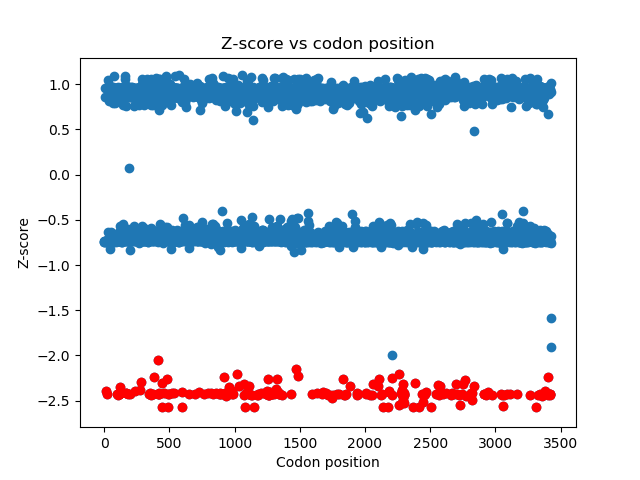
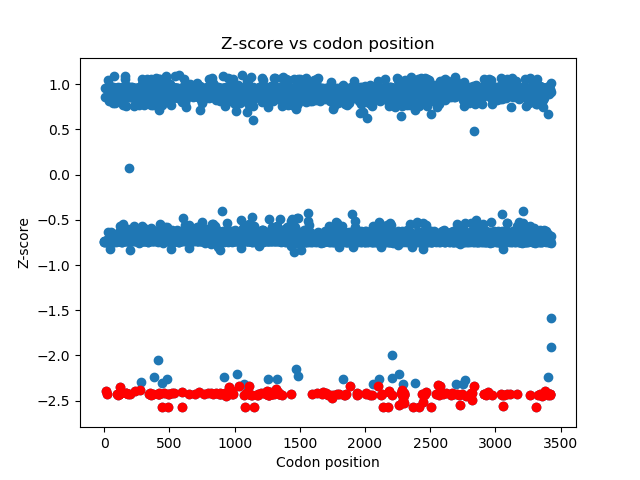
Update3

diff --git a/Week-1/dndsandplot.py b/Week-1/dndsandplot.py
@@ -36,7 +36,7 @@ nonsyn_all=nonsyn.sum(axis=0)
 nonsyn_all=nonsyn_all[ind]
 diff=syn_all-nonsyn_all
 zscore=stats.zscore(diff)
-redind=np.where(zscore<=-2)
+redind=np.where(zscore<=-2.326) # one -tailed , 0.01 p value
 
 plt.figure()
 plt.scatter(range(0,len(diff)),stats.zscore(diff))
@@ -48,10 +48,10 @@ plt.savefig('Z-score (dash as nonsyn).png')
 plt.close()
 
 plt.figure()
-plt.scatter(range(0,len(diff)),nonsyn_all/(syn_all+1)) #To not divide by zero, add 1 to the denominator
-plt.scatter(redind,nonsyn_all[redind]/(syn_all[redind]+1),c='red')
+plt.scatter(range(0,len(diff)),np.log2(nonsyn_all/(syn_all+1))) #To not divide by zero, add 1 to the denominator
+plt.scatter(redind,np.log2(nonsyn_all[redind]/(syn_all[redind]+1)),c='red')
 plt.title('dNdS Ratio')
 plt.xlabel('Codon Position')
 plt.ylabel('dNdS Ratio')
-plt.savefig('dNdS Ratio (dash as nonsyn).png')
+plt.savefig('dNdS Ratio (dash as nosyn).png')
 plt.close()
